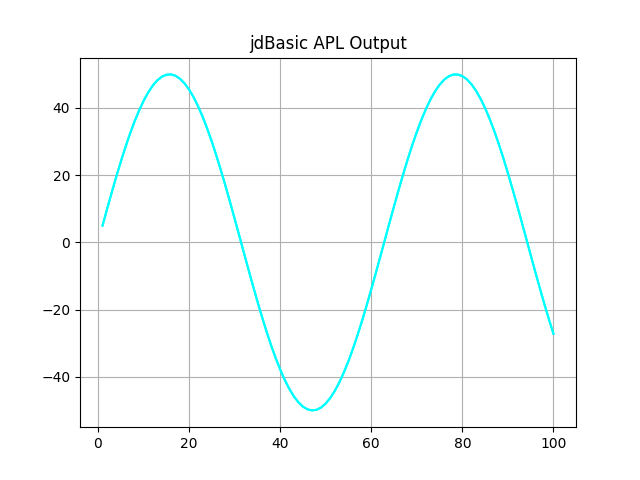
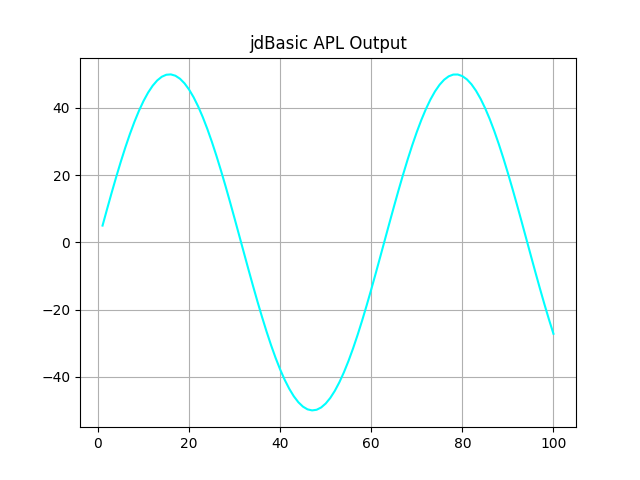
Experimental python hybrid

Changed region(s): [[0.4688, 0.8438, 0.5, 0.875]]

diff --git a/source/NeReLaBasic.cpp b/source/NeReLaBasic.cpp
@@ -19,6 +19,27 @@
 #include <cstring>
 #if defined(_WIN32)
 #include <conio.h>
+// Helper to convert UTF-8 from JSON to std::wstring for Python Config
+std::wstring Utf8ToWstring(const std::string& str) {
+    if (str.empty()) return std::wstring();
+    int size_needed = MultiByteToWideChar(CP_UTF8, 0, &str[0], (int)str.size(), NULL, 0);
+    std::wstring wstrTo(size_needed, 0);
+    MultiByteToWideChar(CP_UTF8, 0, &str[0], (int)str.size(), &wstrTo[0], size_needed);
+    return wstrTo;
+}
+// Helper to expand Windows environment variables like % LOCALAPPDATA %
+std::wstring ExpandEnvVars(const std::wstring & input) {
+    DWORD size_needed = ExpandEnvironmentStringsW(input.c_str(), NULL, 0);
+    if (size_needed == 0) return input; // Return original if expansion fails
+
+    std::wstring expanded(size_needed, L'\0');
+    ExpandEnvironmentStringsW(input.c_str(), &expanded[0], size_needed);
+
+    // Remove the trailing null character included in size_needed
+    expanded.pop_back();
+    return expanded;
+}
+
 #elif defined(__EMSCRIPTEN__)
 extern std::vector<int> g_ems_key_buffer;
 std::deque<int> g_inkey_buffer;
@@ -187,13 +208,60 @@ NeReLaBasic::NeReLaBasic() {
     step_over_stack_depth = 0;
     step_out_stack_depth = 0;
     last_keyboard_check_time = std::chrono::steady_clock::now();
+
 #if defined(PYTHON)
     PyConfig config;
     PyConfig_InitPythonConfig(&config);
 
-    // Set the path to your Python installation
 #if defined(_WIN32)
-    PyStatus status = PyConfig_SetString(&config, &config.home, L"C:\\Users\\atomi\\AppData\\Local\\python\\pythoncore-3.14-64");
+    // 1. Get the path of the current executable
+    wchar_t exePath[MAX_PATH];
+    GetModuleFileNameW(NULL, exePath, MAX_PATH);
+
+    // 2. Strip the executable name to get the directory
+    wchar_t* lastSlash = wcsrchr(exePath, L'\\');
+    if (lastSlash != nullptr) {
+        *lastSlash = L'\0';
+    }
+
+    // 3. Construct the path to the jdbasic.config file
+    std::wstring configFilePath = std::wstring(exePath) + L"\\jdbasic.config";
+    std::wstring pythonHome;
+
+    // 4. Read and parse the JSON config file
+    std::ifstream configFile(configFilePath);
+    if (configFile.is_open()) {
+        try {
+            nlohmann::json j;
+            configFile >> j;
+
+            // Extract and expand the python path
+            if (j.contains("python_home") && j["python_home"].is_string()) {
+                std::string utf8Path = j["python_home"];
+                pythonHome = ExpandEnvVars(Utf8ToWstring(utf8Path));
+            }
+
+            // Future config values can be read here...
+
+        }
+        catch (const nlohmann::json::exception& e) {
+            // Handle JSON parsing errors if needed
+        }
+        configFile.close();
+    }
+
+    // 5. Apply the path from config, or use a fallback
+    PyStatus status;
+    if (!pythonHome.empty()) {
+        status = PyConfig_SetString(&config, &config.home, pythonHome.c_str());
+    }
+    else {
+        // Fallback if config file is missing, invalid, or lacks the key
+        // Also expanding the fallback just in case
+        std::wstring fallback = ExpandEnvVars(L"%LOCALAPPDATA%\\python\\pythoncore-3.14-64");
+        status = PyConfig_SetString(&config, &config.home, fallback.c_str());
+    }
+
     if (PyStatus_Exception(status)) {
         // Fallback or error handling if the path is bad
         PyConfig_Clear(&config);
@@ -208,7 +276,6 @@ NeReLaBasic::NeReLaBasic() {
 
     if (PyStatus_Exception(status)) {
         // Handle fatal initialization error
-        // (e.g., print a warning to the console that Python isn't available)
     }
 #endif
 }
